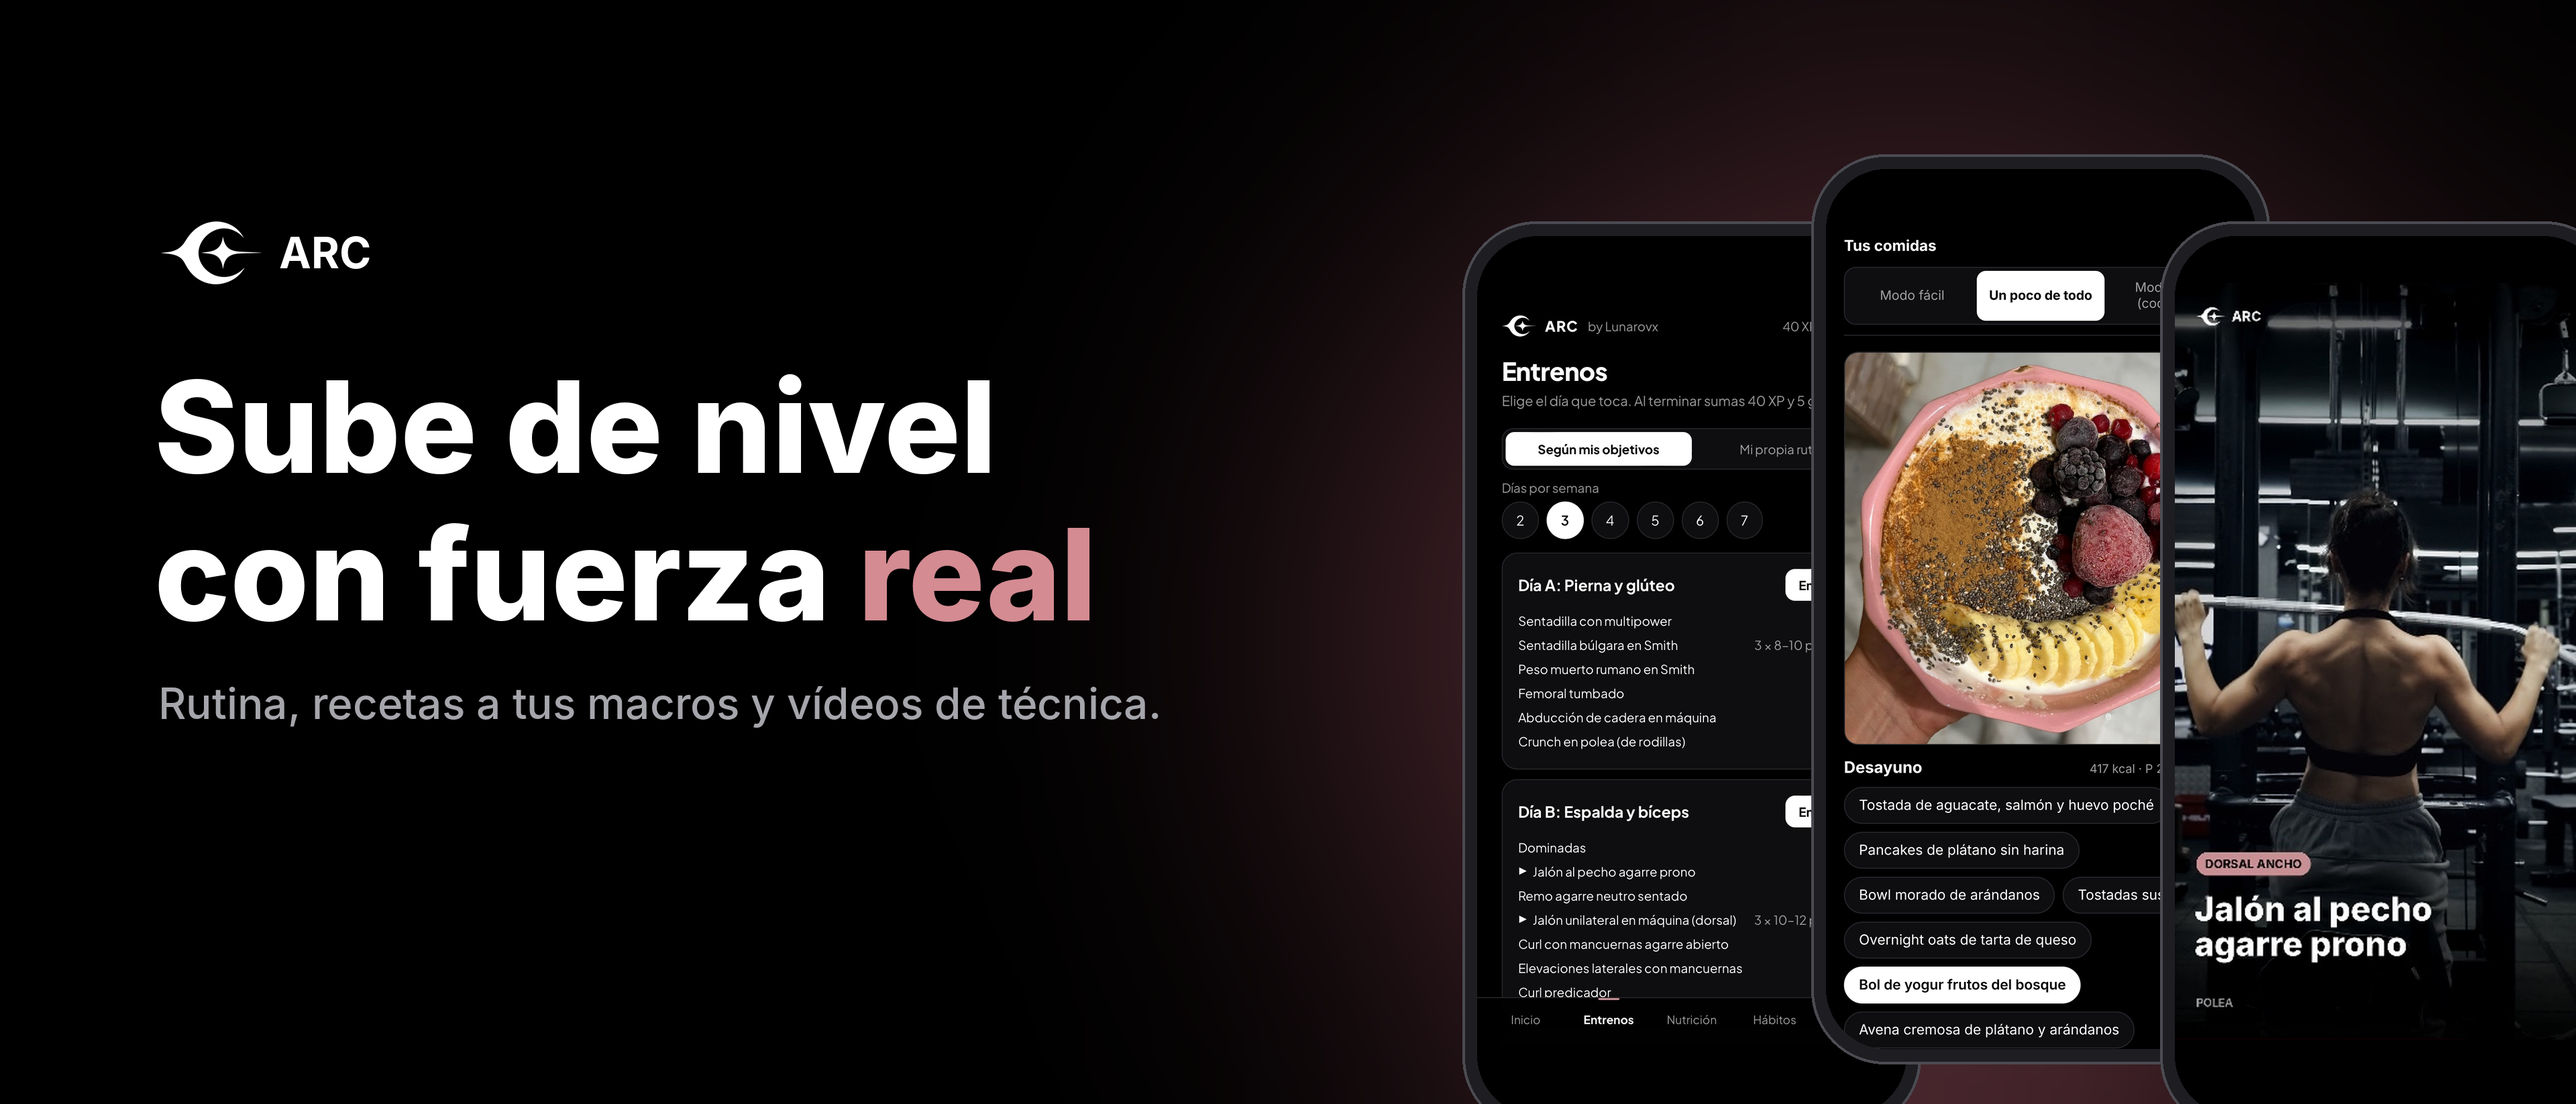
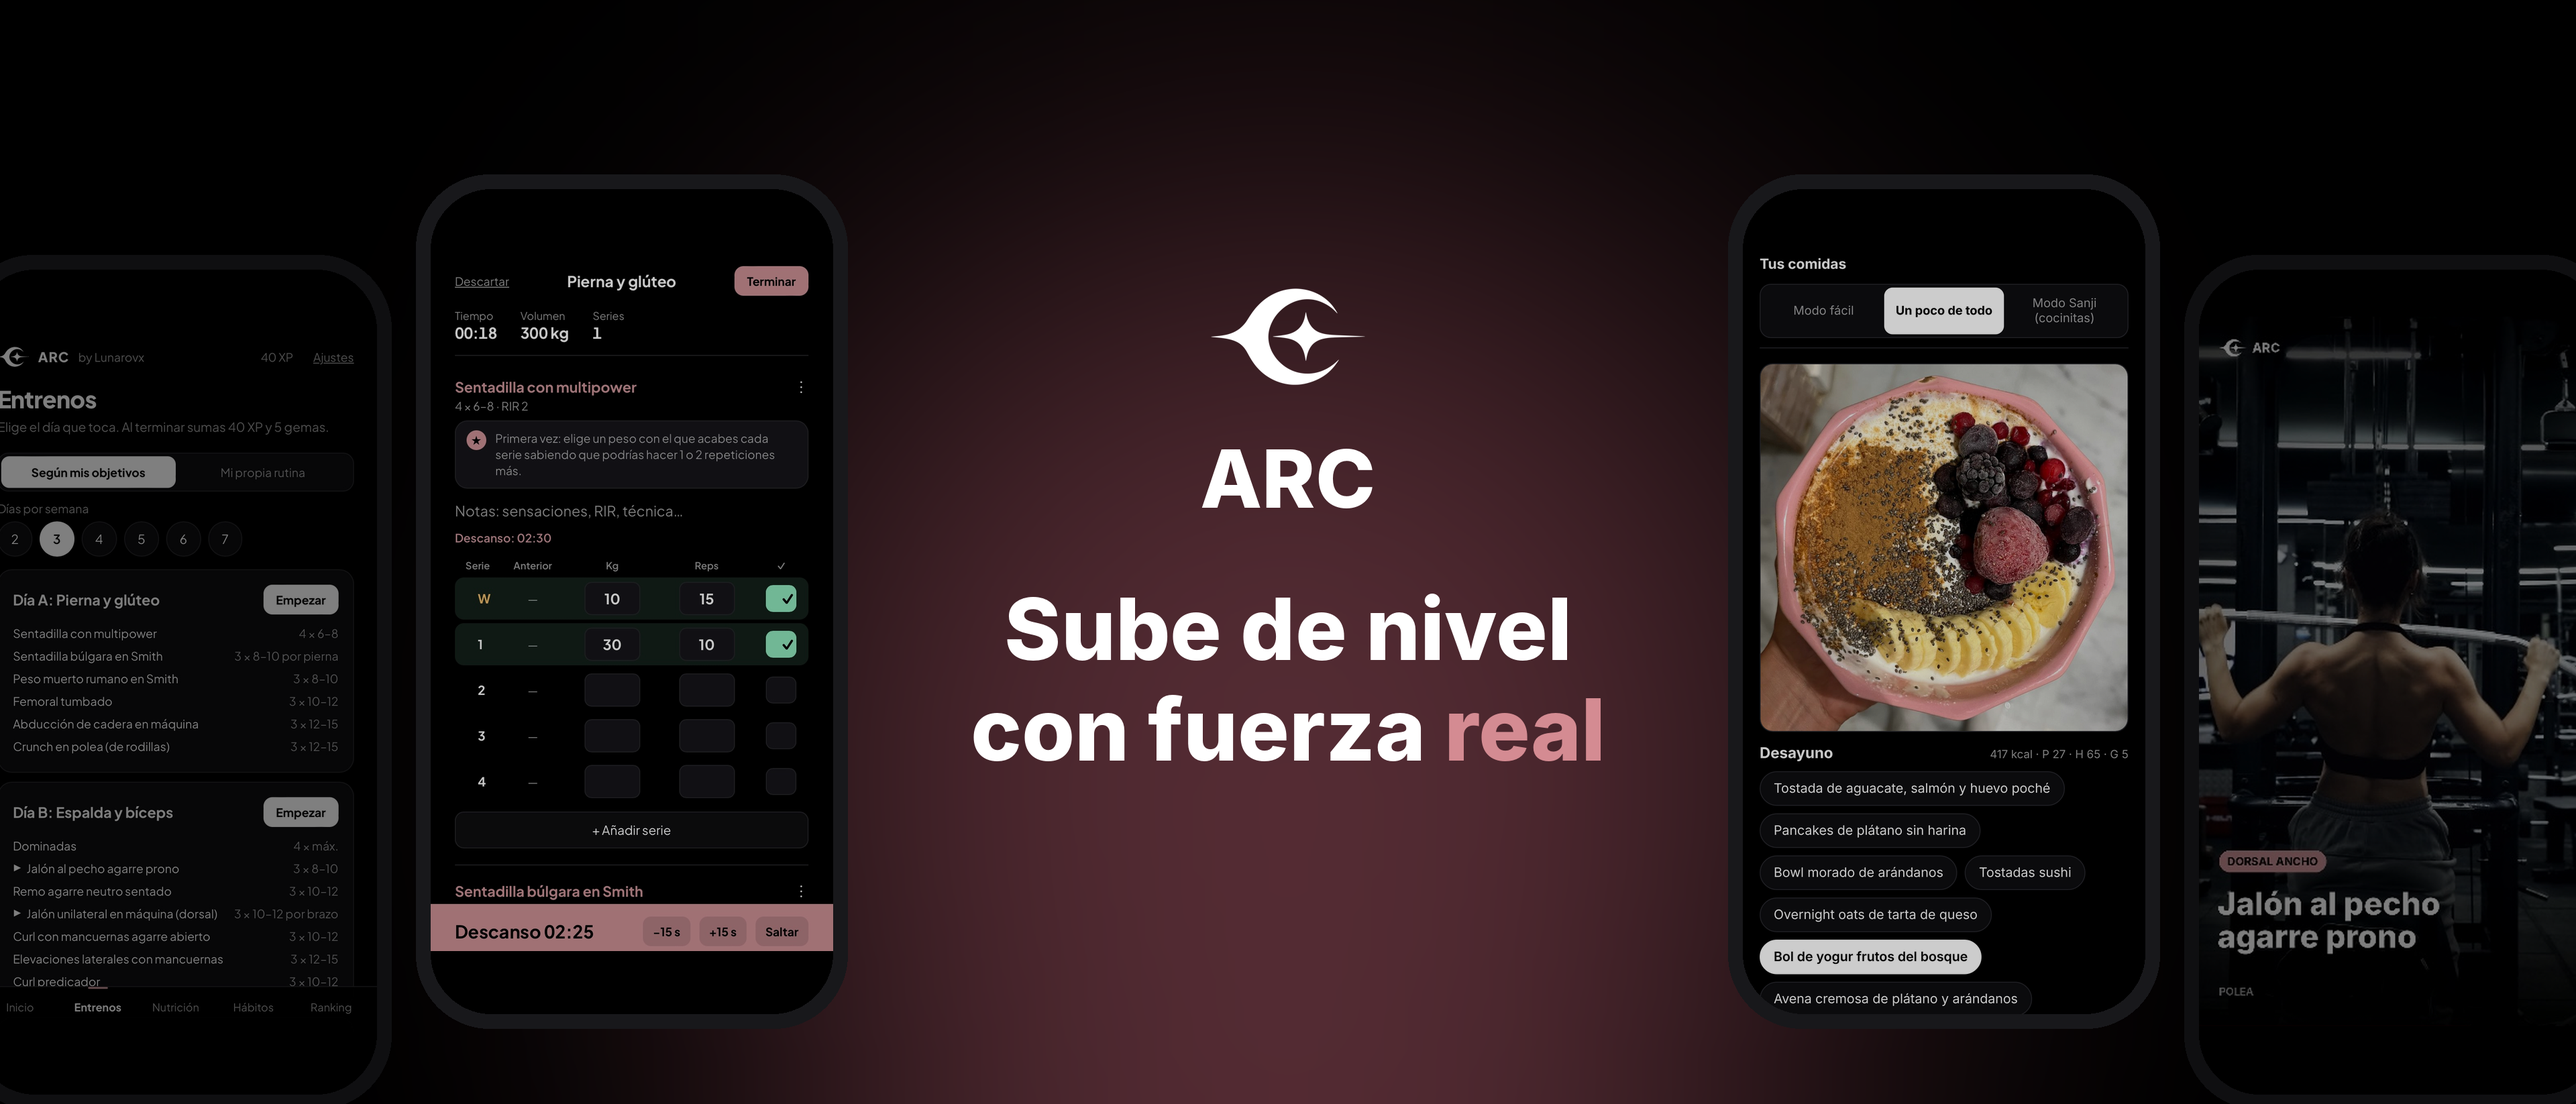
Cabecera centrada para la App Store
Claude-Session: https://claude.ai/code/session_01YbzsCEJorLLnqfp1NVcty4

diff --git a/marketing/header2.py b/marketing/header2.py
@@ -1,0 +1,30 @@
+from PIL import Image, ImageDraw, ImageFont, ImageFilter
+W,H=3840,1646; F="/usr/share/fonts/opentype/inter/"
+PINK=(212,139,146); WHITE=(255,255,255); DIM=(165,165,172)
+c=Image.new("RGB",(W,H),(0,0,0))
+g=Image.new("RGB",(W,H),(0,0,0)); ImageDraw.Draw(g).ellipse((1100,300,2740,1900),fill=(85,44,52)); g=g.filter(ImageFilter.GaussianBlur(320)); c=Image.blend(c,g,1)
+def rounded(im,r):
+    m=Image.new("L",im.size,0); ImageDraw.Draw(m).rounded_rectangle((0,0,im.size[0]-1,im.size[1]-1),r,fill=255); return m
+def phone(src,crop=None,w=600):
+    img=Image.open("raw/"+src).convert("RGB")
+    if crop: img=img.crop(crop)
+    sh=int(w*2.05); img=img.resize((w,int(img.size[1]*w/img.size[0])),Image.LANCZOS)
+    scr=Image.new("RGB",(w,sh),(0,0,0)); scr.paste(img,(0,70))
+    b=22; ph=Image.new("RGB",(w+2*b,sh+2*b),(30,30,34)); ph.paste(scr,(b,b),rounded(scr,90)); return ph
+# móviles a los lados (decorativos)
+for (s,cr),x,y,a in [(("rutina.jpg",None),-60,380,0.5),(("registro-series.jpg",None),620,260,0.8),(("nutricion.png",None),2576,260,0.8),(("video-tecnica.jpg",(270,232,625,858)),3256,380,0.5)]:
+    p=phone(s,cr); dark=Image.new("RGB",p.size,(0,0,0)); p=Image.blend(dark,p,a)
+    c.paste(p,(x,y),rounded(p,110))
+# centro: logo + titular (zona segura central)
+d=ImageDraw.Draw(c)
+fH=ImageFont.truetype(F+"Inter-ExtraBold.otf",128)
+logo=Image.open("raw/logo-mark.png").convert("RGBA"); lw=230; logo=logo.resize((lw,int(logo.size[1]*lw/logo.size[0])))
+c.paste(logo,(W//2-lw//2,430),logo)
+d.text((W//2,640),"ARC",font=ImageFont.truetype(F+"Inter-ExtraBold.otf",120),fill=WHITE,anchor="ma")
+d.text((W//2,860),"Sube de nivel",font=fH,fill=WHITE,anchor="ma")
+w1=d.textlength("con fuerza ",font=fH); w2=d.textlength("real",font=fH); x=W//2-(w1+w2)/2
+d.text((x,1010),"con fuerza ",font=fH,fill=WHITE); d.text((x+w1,1010),"real",font=fH,fill=PINK)
+c.save("header_3840x1646.png")
+# simulación del recorte en iPhone (zona central)
+cw=1300; c.crop((W//2-cw//2,0,W//2+cw//2,H)).resize((700,823)).save("/tmp/claude-0/-home-claude/3bae07ba-c8c3-5f0e-adb3-78f0953fb194/scratchpad/header_crop.png")
+c.resize((1280,549)).save("/tmp/claude-0/-home-claude/3bae07ba-c8c3-5f0e-adb3-78f0953fb194/scratchpad/header_prev.png")
